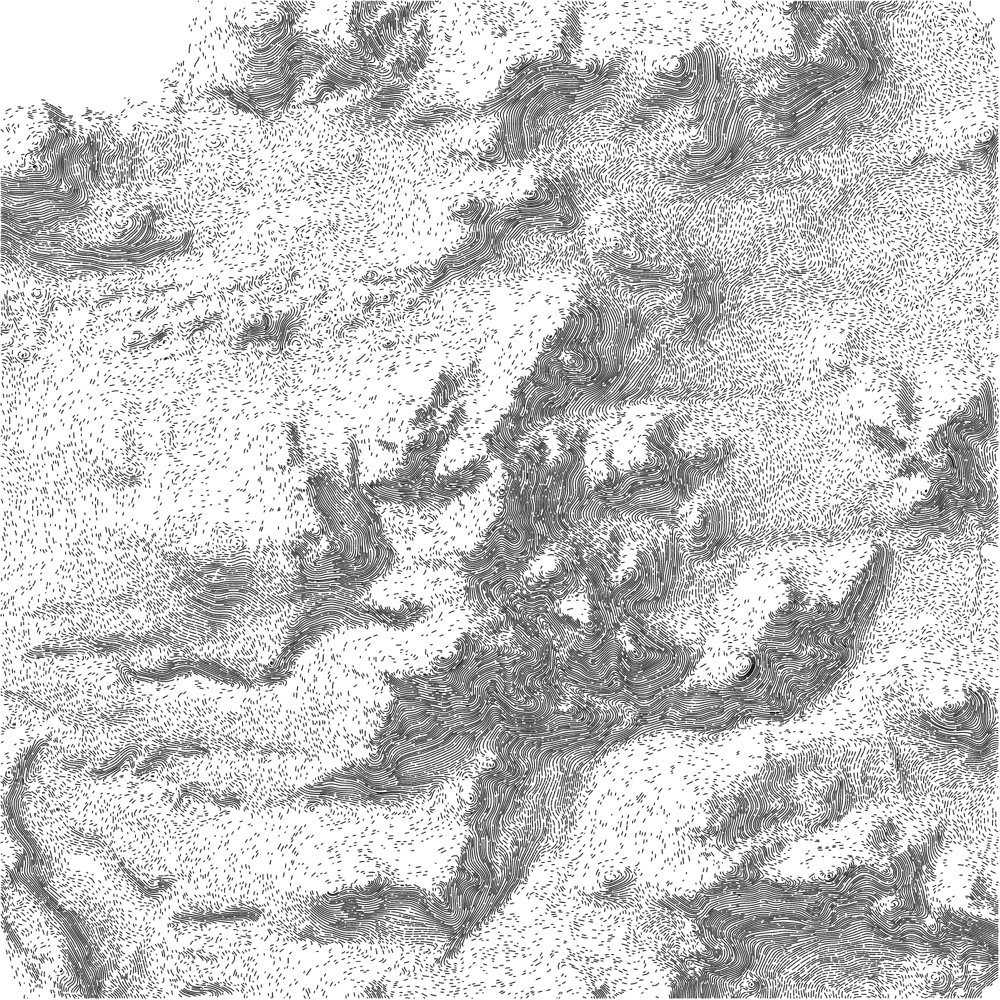
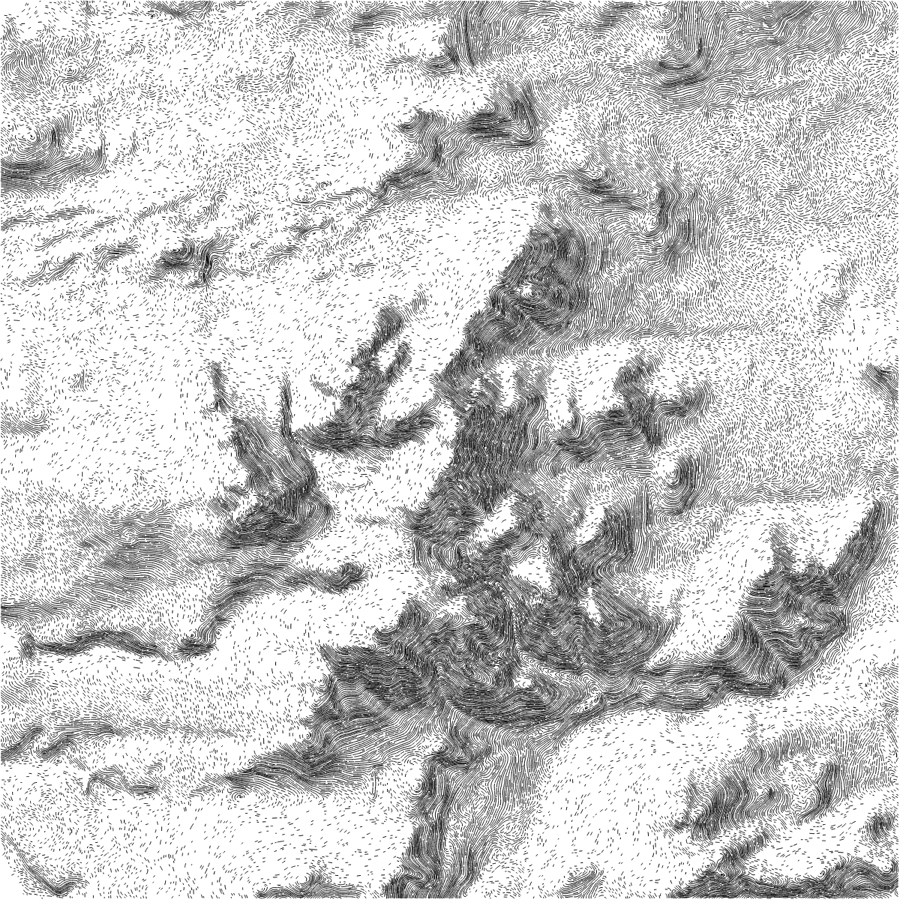
Tighten README examples and call out Rust, Python, and publish plans.
Lead with a Bay Area drawing, add two closer styled views, and describe the Python wrapper plus crates.io / PyPI intent up front.

diff --git a/README.md b/README.md
@@ -5,58 +5,59 @@ strokes that follow the lie of the land, dense and solid on shadowed slopes,
 sparse stipple on flat ground, a few scattered marks on lit slopes. Up close
 it is line drawing; from afar it reads as hillshading.
 
+The engine is **Rust** (`burin-core`), with a **Python wrapper** for the same
+API, a command-line tool, and a browser build (WASM). Nothing is on crates.io
+or PyPI yet; publishing a Cargo crate and a `pip` package (likely
+`burin-maps`) is on the roadmap. Until then, install from this repo.
+
 Give it a place (a name, an address, coordinates or a bounding box) and it
 downloads the elevation, draws, and writes a PNG and an SVG ready for a pen
-plotter. The same engine also runs in the browser: try the live map at
+plotter. The same engine runs in the browser: try the live map at
 [burin-map.vercel.app](https://burin-map.vercel.app) (password `folder`).
 
 *A burin is the steel tool maps were engraved with on copper plates for
 centuries.*
 
 <p align="center">
-  <img src="examples/san-francisco.png" width="720" alt="San Francisco Bay Area" />
+  <img src="examples/bay-area.png" width="720" alt="San Francisco Bay Area" />
   <br />
-  <em>San Francisco</em>
+  <em>Bay Area</em>
 </p>
 
 <p align="center">
-  <img src="examples/twin-peaks.png" width="360" alt="Twin Peaks, San Francisco" />
+  <img src="examples/twin-peaks.png" width="360" alt="Twin Peaks — denser, more wobble" />
   &nbsp;
-  <img src="examples/matterhorn.png" width="360" alt="Matterhorn" />
+  <img src="examples/mount-tam.png" width="360" alt="Mount Tamalpais — broader, quieter lines" />
   <br />
-  <em>Twin Peaks · Matterhorn</em>
-</p>
-
-<p align="center">
-  <img src="examples/bern.png" width="720" alt="Bern and surroundings" />
+  <em>Twin Peaks · Mount Tamalpais</em>
   <br />
-  <em>Bern</em>
+  <sub>Closer views with different style settings</sub>
 </p>
 
 ## Install
 
-The engine is written in Rust and usable three ways: a command-line tool, a
-Python package, and a live map in the browser. None is published yet; from a
-clone you need a [Rust toolchain](https://rustup.rs). For the web map you
-also need [`wasm-pack`](https://rustwasm.github.io/wasm-pack/)
+From a clone you need a [Rust toolchain](https://rustup.rs). For the web map
+you also need [`wasm-pack`](https://rustwasm.github.io/wasm-pack/)
 (`cargo install wasm-pack`).
 
-Command line only:
+Command line:
 
 ```bash
 cargo install --path crates/burin      # puts `burin` in ~/.cargo/bin
 ```
 
-Python package (also installs the same `burin` command):
+Python (compiles the Rust engine via maturin; needs Rust for now):
 
 ```bash
 python -m venv .venv && source .venv/bin/activate
-pip install .                          # compiles the Rust engine, ~1 min
+pip install .                          # ~1 min first build
 ```
 
-Once on PyPI it will be `pip install burin-maps` (`burin` is taken there;
-the command and the import are still `burin`), with prebuilt wheels so no
-Rust is needed. Python ≥ 3.10, numpy is the only dependency.
+The import and the CLI entry point are both `burin`. When published, the
+plan is `cargo install burin` (or depend on `burin` / `burin-core` on
+crates.io) and `pip install burin-maps` on PyPI (`burin` is taken there),
+with wheels so Python users do not need a Rust toolchain. Python ≥ 3.10;
+numpy is the only runtime dependency of the wrapper.
 
 Elevation is downloaded on demand (see [Data](#data)); addresses are looked
 up with OpenStreetMap's [Nominatim](https://nominatim.org/) (one request
